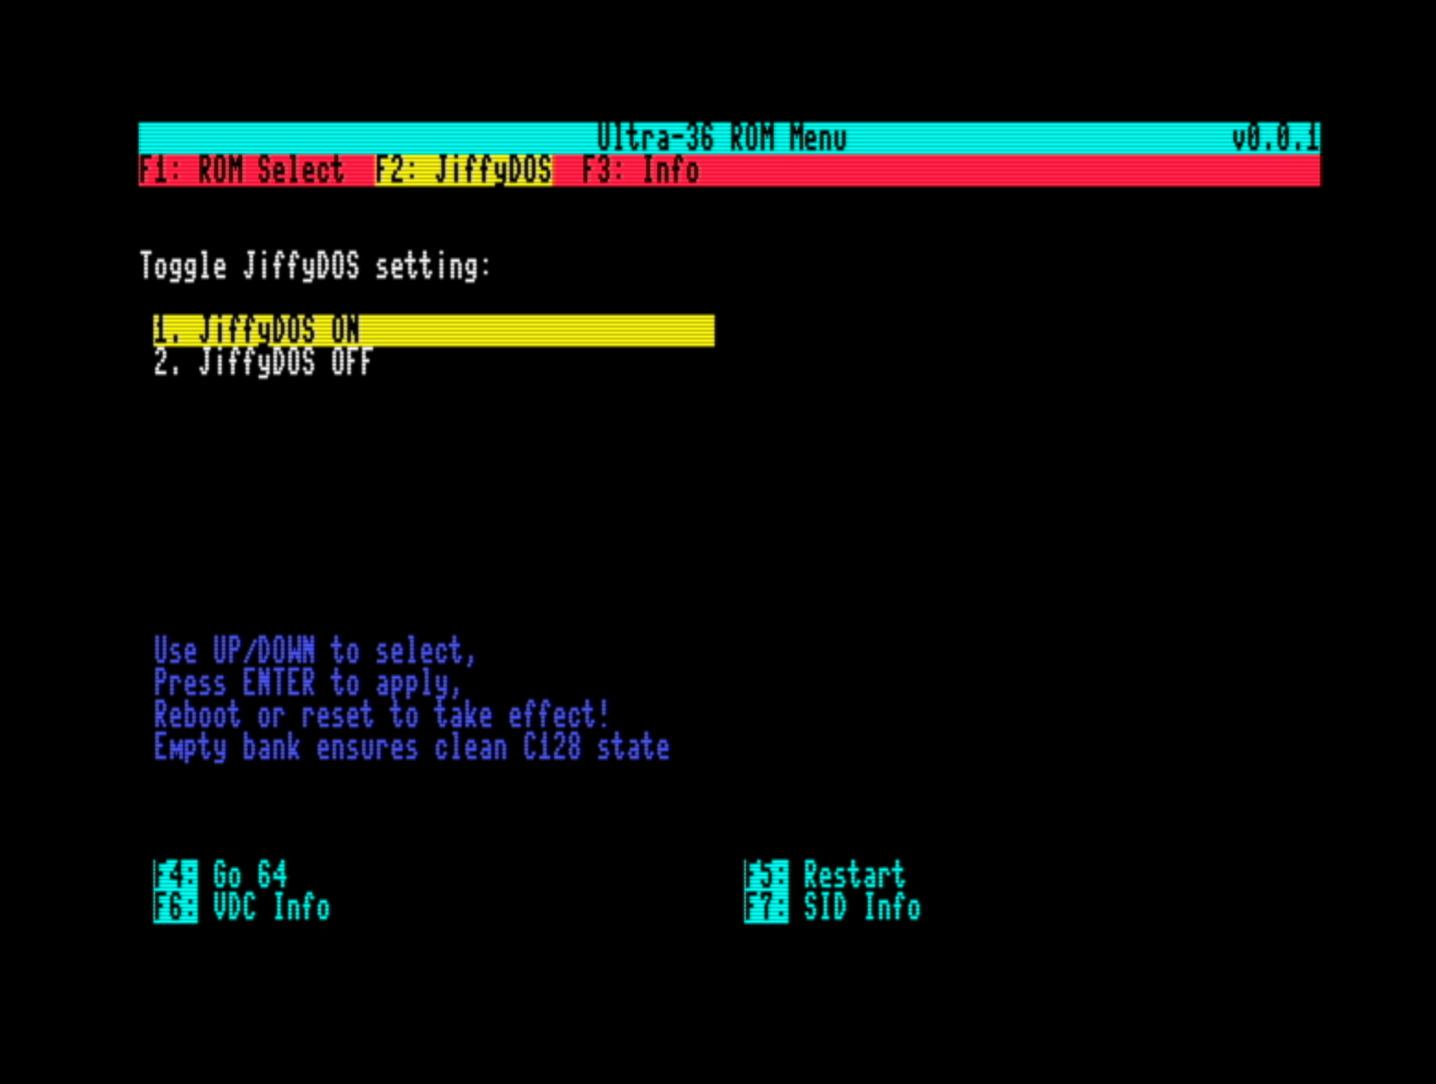
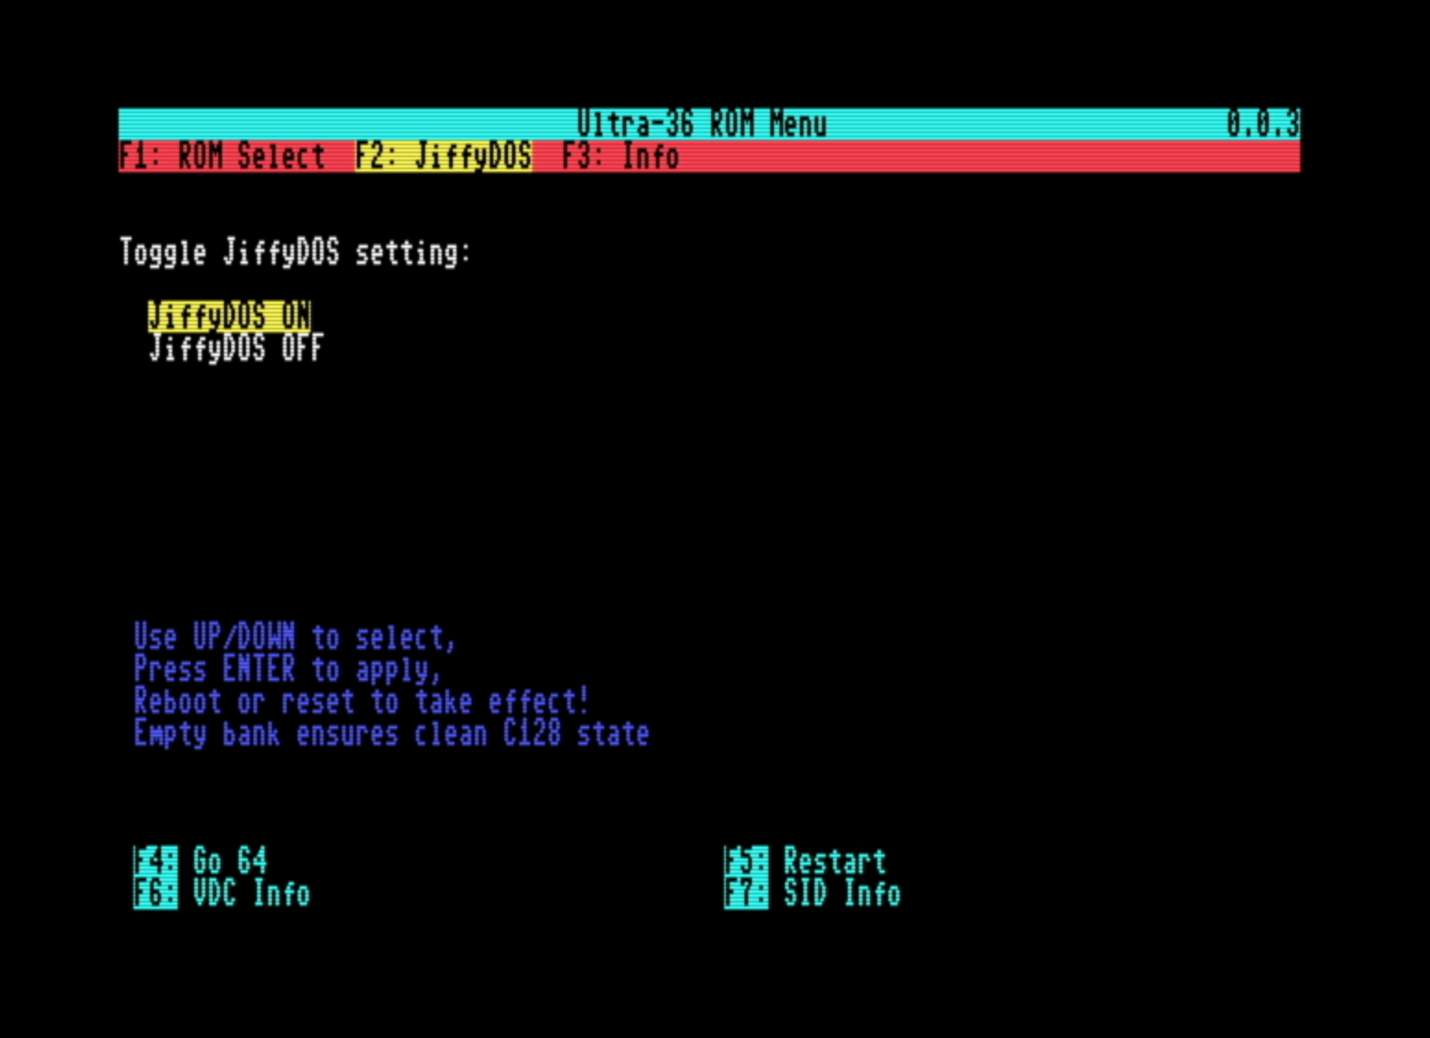
Bumped version, updated screenshots, minor fixes in main

diff --git a/src/main.c b/src/main.c
@@ -18,6 +18,7 @@
 #include "vdc_info_screen.h"
 #include "sid_info_screen.h"
 
+#define APP_VERSION "0.0.3"
 #define IO_TINY_COMMAND 0xD700
 // Masks for bit composition
 #define ROM_BANK_MASK 0x0F  // 00001111 - supports 16 banks (0–15)
@@ -219,8 +220,8 @@ void draw_title_bar(void) {
     cputs("Ultra-36 ROM Menu");
 
     // Place version at the right
-    gotoxy(SCREENW - 6, 0);  // 6 is length of "v0.0.1"
-    cputs("v0.0.2");
+    gotoxy(SCREENW - 5, 0);  // 5 is length of "0.0.1"
+    cputs(APP_VERSION);
 
     revers(0);
 }
@@ -308,7 +309,7 @@ void draw_options_initial(const char* options[], int count, int selected) {
             col_y = 6 + i;
         }
 
-        cputsxy(col_x + 3, col_y, options[i]);
+        cputsxy(col_x + 1, col_y, options[i]); // here if I change to 1 problem
     }
 
     // Now apply colors for the selected item
@@ -381,7 +382,7 @@ void get_item_position(unsigned char item_index, int total_count, unsigned char 
 
 // Updated update_option_color function with explicit x,y parameters
 void update_option_color(int option_num, int is_selected, unsigned char line_x, unsigned char line_y) {
-    gotoxy(line_x + 3, line_y);  // Match the +3 offset from draw_options_initial
+    gotoxy(line_x + 1, line_y);  // Match the +3 offset from draw_options_initial
 
     if (is_selected) {
         textcolor(COLOR_YELLOW);
@@ -443,8 +444,9 @@ void draw_info_screen(void) {
     // Draw info content
     textcolor(COLOR_WHITE);
     cputsxy(0, 3, "Ultra-36 ROM Switcher Information");
-    cputsxy(0, 4, "Version: 0.0.2 - Author: Lukasz Dziwosz");
-
+    cputsxy(0, 4, "Version: ");
+    cputsxy(9, 4, APP_VERSION);
+    cputsxy(14, 4, " - Author: Lukasz Dziwosz");
     cputsxy(0, 6, "Features:");
     cputsxy(2, 7, "- Switch between 8/16 ROM banks");
     cputsxy(2, 8, "- Toggle JiffyDOS on/off");
